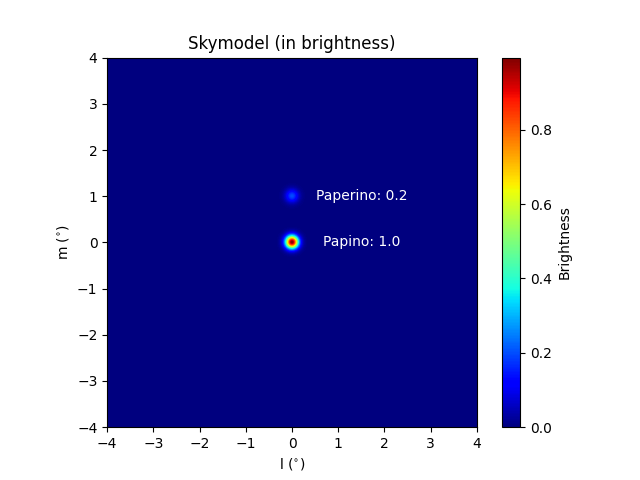
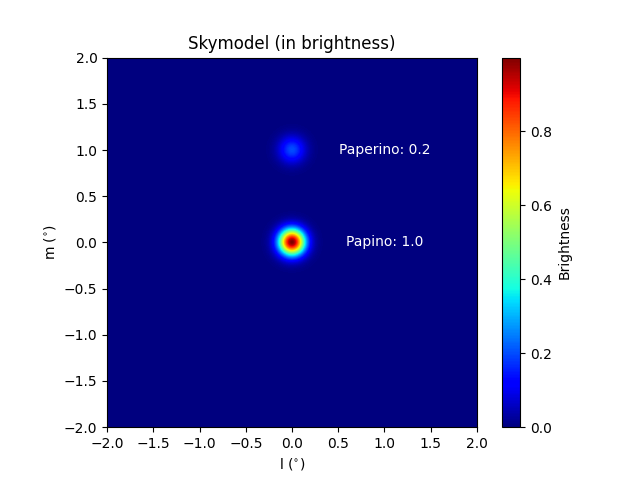
update

diff --git a/assignment2/PartB/simvis.py b/assignment2/PartB/simvis.py
@@ -9,7 +9,7 @@ import numpy.linalg as la
 import pandas as pd
 
 from read import read_config, read_enu_coords, read_sky_model_df, read_img_config, input_dir
-from utils import to_deg, scale, log_scale, deg_to_rad, to_rad
+from utils import to_deg, scale, log_scale, deg_to_rad, to_rad, total
 
 
 @dataclass
@@ -29,8 +29,14 @@ class SimVis:
 
         cell_size = self.img_conf["cell_size"]
         self.Nx = self.Ny = self.img_conf["num_pixels"]
-        self.u_min = -0.5 * self.Nx * cell_size
-        self.v_min = -0.5 * self.Ny * cell_size
+
+        self.l_min = to_deg(-0.5 * self.Nx * cell_size)
+        self.m_min = to_deg(-0.5 * self.Ny * cell_size)
+        self.l_max = -self.l_min
+        self.m_max = -self.m_min
+
+        self.u_min = -0.5 * self.Nx * (1 / (self.Nx * cell_size))
+        self.v_min = -0.5 * self.Ny * (1 / (self.Ny * cell_size))
         self.u_max = -self.u_min
         self.v_max = -self.v_min
 
@@ -39,7 +45,6 @@ class SimVis:
         uv = np.vstack(self.baselines["UVW"].values)[:, :2]
         self.uv = np.concatenate([uv, -uv])
         self.scaled_uv = self._scale_uv()
-
         self.gridded_uv = np.zeros((self.Nx, self.Ny), dtype=float)
         self.gridded_vis = np.zeros((self.Nx, self.Ny), dtype=complex)
 
@@ -51,9 +56,9 @@ class SimVis:
         self.obs_img = scale(obs_img, self.skymodel_df["flux"].max())
 
     def _get_skymodel(self, sigma=0.1):
-        plane_size = self.img_conf["plane_size"]
-        lm_range = np.linspace(-plane_size / 2, plane_size / 2, self.img_conf["num_pixels"])
-        l, m = np.meshgrid(lm_range, lm_range[::-1])
+        l_range = np.linspace(self.l_min, self.l_max, self.img_conf["num_pixels"])
+        m_range = np.linspace(self.m_min, self.m_max, self.img_conf["num_pixels"])
+        l, m = np.meshgrid(l_range, m_range[::-1])
 
         l_deg = self.skymodel_df["l"].map(to_deg).values
         m_deg = self.skymodel_df["m"].map(to_deg).values
@@ -137,17 +142,17 @@ class SimVis:
         )[0, :, :2]
 
     def plot_sky_model(self):
-        size = self.img_conf["plane_size"] / 2
-        plt.imshow(self.skymodel, extent=(-size, size, -size, size), cmap='jet')
+        plt.imshow(self.skymodel, extent=(self.l_min, self.l_max, self.m_min, self.m_max), cmap='jet')
         l_rads = self.skymodel_df["l"].values
         m_rads = self.skymodel_df["m"].values
-        l_degs = self.skymodel_df["l"].map(to_deg).values
-        m_degs = self.skymodel_df["m"].map(to_deg).values
-        for i, l_rad in enumerate(l_rads):
-            src = self.skymodel_df[(self.skymodel_df.l == l_rad) & (self.skymodel_df.m == m_rads[i])]
+        for l_rad, m_rad in zip(l_rads, m_rads):
+            src = self.skymodel_df[(self.skymodel_df.l == l_rad) & (self.skymodel_df.m == m_rad)]
             name = src.name.values[0]
             flux = src.flux.values[0]
-            plt.annotate(f"{name}: {flux}", xy=(l_degs[i], m_degs[i]), xytext=(l_degs[i]+1.5, m_degs[i]), fontsize='medium', ha='center', va='center', color='white')
+            l_deg = to_deg(l_rad)
+            m_deg = to_deg(m_rad)
+            plt.annotate(f"{name}: {flux}", xy=(l_deg, m_deg), xytext=(l_deg+1, m_deg), fontsize='medium',
+                         ha='center', va='center', color='white')
         plt.colorbar(label='Brightness')
         plt.xlabel(r'l ($^{\circ}$)')
         plt.ylabel(r'm ($^{\circ}$)')
@@ -194,8 +199,7 @@ class SimVis:
         plt.close()
 
     def plot_psf(self):
-        size = self.img_conf["plane_size"] / 2
-        plt.imshow(log_scale(self.psf), extent=(-size, size, -size, size))
+        plt.imshow(log_scale(self.psf), extent=(self.l_min, self.l_max, self.m_min, self.m_max))
         plt.xlabel(r"l ($^{\circ})$")
         plt.ylabel(r"m ($^{\circ})$")
         plt.title('PSF')
@@ -226,8 +230,7 @@ class SimVis:
         plt.close()
 
     def plot_observed_image(self):
-        size = self.img_conf["plane_size"] / 2
-        plt.imshow(self.obs_img, cmap="jet", extent=(-size, size, -size, size))
+        plt.imshow(self.obs_img, cmap="jet", extent=(self.l_min, self.l_max, self.m_min, self.m_max))
         plt.xlabel(r"l ($^{\circ})$")
         plt.ylabel(r"m ($^{\circ})$")
         plt.title('Observed Image')
@@ -253,20 +256,20 @@ class SimVis:
             v_max = np.ceil(v_range[-1])
 
             plt.figure(figsize=(5, 6))
-            plt.imshow(log_scale(visibilities), extent=(u_min, u_max, v_min, v_max), cmap="jet")
+            plt.imshow(visibilities.real, extent=(u_min, u_max, v_min, v_max), cmap="jet")
             plt.xlabel(r"u (rad$^{-1})$")
             plt.ylabel(r"v (rad$^{-1})$")
-            plt.title(f'Baseline {baseline} Visibilities (Amplitude)')
+            plt.title(f'Baseline {baseline} Visibilities (Real)')
             plt.colorbar(label="Magnitude", orientation='vertical')
             plt.tight_layout()
             plt.savefig(self.results_dir / f"vis_b_{baseline}_amp.png")
             plt.close()
 
             plt.figure(figsize=(5, 6))
-            plt.imshow(np.angle(visibilities), extent=(u_min, u_max, v_min, v_max), cmap='jet')
+            plt.imshow(visibilities.imag, extent=(u_min, u_max, v_min, v_max), cmap='jet')
             plt.xlabel(r"u (rad$^{-1})$")
             plt.ylabel(r"v (rad$^{-1})$")
-            plt.title(f'Baseline {baseline} Visibilities (Phase)')
+            plt.title(f'Baseline {baseline} Visibilities (Imaginary)')
             plt.colorbar(label="Magnitude", orientation='vertical')
             plt.tight_layout()
             plt.savefig(self.results_dir / f"vis_b_{baseline}_phase.png")

diff --git a/assignment2/PartB/read.py b/assignment2/PartB/read.py
@@ -51,7 +51,6 @@ def read_sky_model_df():
 def read_img_config():
     with open(input_dir / 'image.json', "rb") as file:
         config = load(file)
-    config["cell_size"] = total(*config["cell_size"]) * 3600
-    config["plane_size"] = total(*config["plane_size"])
+    config["cell_size"] = deg_to_rad(*config["cell_size"])
     return config
 
